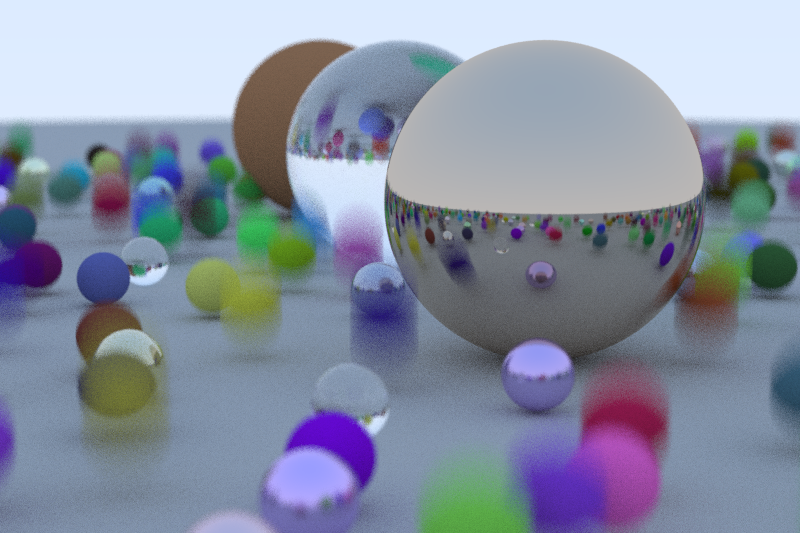
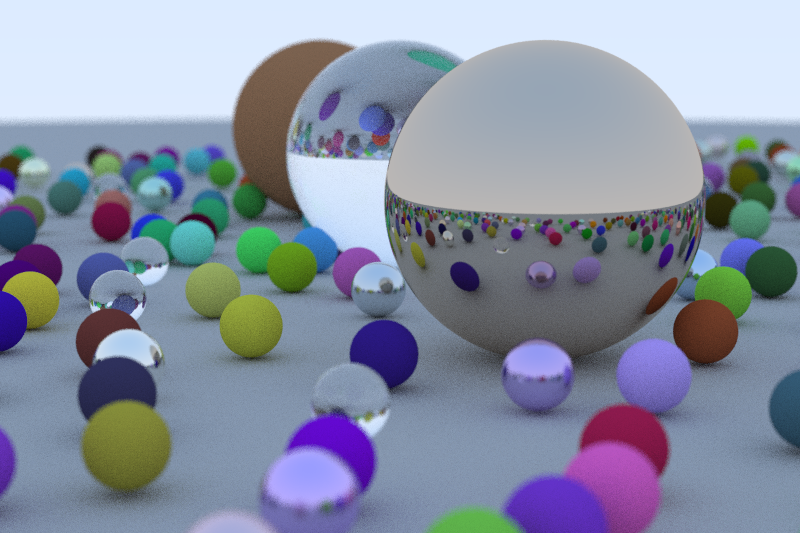
pack qbvh indices

diff --git a/src/main.rs b/src/main.rs
@@ -792,6 +792,10 @@ enum BVHNodeType {
     EmptyLeaf, // This node has no children.
 }
 
+struct PackedIdx {
+    value: i32
+}
+
 /// A QBVHNode has up to four children that it stores the bounds of.
 /// This allows fast intersection testing by testing all 4 at once through SIMD.
 struct QBVHNode {
@@ -801,9 +805,106 @@ struct QBVHNode {
     bb_max_x: [f32; 4],
     bb_max_y: [f32; 4],
     bb_max_z: [f32; 4],
-    children: [i32; 4],
-    num_children: [u16; 4], 
-    child_type: [BVHNodeType; 4],
+    children: [PackedIdx; 4],
+}
+
+impl PackedIdx {
+    fn new_joint(idx: u32) -> PackedIdx {
+        PackedIdx {
+            value: (idx as i32) & !i32::MIN
+        }
+    }
+
+    fn joint_get_idx(&self) -> u32 {
+        debug_assert_ne!(self.is_leaf(), true);
+        self.value as u32
+    }
+
+    fn new_empty_leaf() -> PackedIdx {
+        PackedIdx {
+            value: i32::MIN
+        }
+    }
+
+    const MAX_IDX: u32 = 8388607;
+    const MAX_COUNT: u32 = 255; 
+
+    /// Encodes bits as: IsChild:[1] Number of primitves:[8] start idx[23]:
+    fn new_leaf(idx: u32, count: u32) -> PackedIdx {
+        debug_assert!(idx <= PackedIdx::MAX_IDX, "Val: {}, Max: {}", idx, PackedIdx::MAX_IDX);
+        debug_assert!(count <= PackedIdx::MAX_COUNT, "Val: {}, Max: {}", count, PackedIdx::MAX_COUNT);
+
+        let packed_idx = ((!0 >> 9) & idx) as i32;
+        let packed_count = (count << 23) as i32;
+    
+        PackedIdx {
+            value: i32::MIN | packed_count | packed_idx
+        }
+    }
+
+    fn is_leaf(&self) -> bool {
+        (self.value & i32::MIN) == i32::MIN
+    }
+
+    fn is_empty_leaf(&self) -> bool {
+        self.value == i32::MIN
+    }
+
+    fn leaf_get_idx_count(&self) -> (u32, u32) {
+        debug_assert!(self.is_leaf());
+
+        let idx = self.value as u32 & (!0 >> 9);
+        let count = (self.value & !i32::MIN) >> 23;
+
+        (idx as u32, count as u32)
+    }
+}
+
+#[cfg(test)]
+mod packed_idx_tests {
+    use super::*;
+
+    #[test]
+    fn test_is_leaf()
+    {
+        let a = PackedIdx::new_leaf(4023, 15);
+        assert!(a.is_leaf());
+    
+        let b = PackedIdx::new_empty_leaf();
+        assert!(b.is_leaf());
+    
+        let c = PackedIdx::new_joint(u32::MAX);
+        assert!(c.is_leaf() == false);
+    
+        let d = PackedIdx::new_joint(239);
+        assert!(d.is_leaf() == false);
+    }
+
+    #[test]
+    fn test_get_leaf_data() {
+        {
+            let idx = 4023;
+            let count = 15;
+
+            let x = PackedIdx::new_leaf(idx, count);
+            let (i, c) = x.leaf_get_idx_count();
+            
+            assert_eq!(idx, i);
+            assert_eq!(count, c);
+        }
+        {
+            let x = PackedIdx::new_empty_leaf();
+            let (i, c) = x.leaf_get_idx_count();
+            assert_eq!(i, 0);
+            assert_eq!(c, 0);
+        }    
+        {
+            let x = PackedIdx::new_leaf(PackedIdx::MAX_IDX, PackedIdx::MAX_COUNT);
+            let (i, c) = x.leaf_get_idx_count();
+            assert_eq!(i, PackedIdx::MAX_IDX);
+            assert_eq!(c, PackedIdx::MAX_COUNT);
+        }
+    }
 }
 
 impl QBVHNode {
@@ -815,26 +916,20 @@ impl QBVHNode {
             bb_max_x: [0.0, 0.0, 0.0, 0.0],
             bb_max_y: [0.0, 0.0, 0.0, 0.0],
             bb_max_z: [0.0, 0.0, 0.0, 0.0],
-            children: [INVALID_GEO_IDX, INVALID_GEO_IDX, INVALID_GEO_IDX, INVALID_GEO_IDX],
-            num_children: [0, 0, 0, 0],
-            child_type: [BVHNodeType::Joint, BVHNodeType::Joint, BVHNodeType::Joint, BVHNodeType::Joint],
+            children: [PackedIdx::new_empty_leaf(), PackedIdx::new_empty_leaf(), PackedIdx::new_empty_leaf(), PackedIdx::new_empty_leaf()],
         }
     }
 
     fn set_child_joint_node(&mut self, child: usize, index: usize) {
-        self.children[child] = index as i32;
-        self.child_type[child] = BVHNodeType::Joint;
+        self.children[child] = PackedIdx::new_joint(index as u32)
     }
 
     fn set_child_leaf_node(&mut self, child: usize, size: usize, index: usize) {
         if size != 0 {
-            self.children[child] = index as i32;
-            self.num_children[child] = size as u16;
-            self.child_type[child] = BVHNodeType::Leaf;
+            self.children[child] = PackedIdx::new_leaf(index as u32, size as u32)
         }
         else {
-            self.children[child] = INVALID_GEO_IDX;
-            self.child_type[child] = BVHNodeType::EmptyLeaf;
+            self.children[child] = PackedIdx::new_empty_leaf()
         }
     }
 
@@ -855,26 +950,25 @@ struct QBVH {
 
 impl QBVH {
     fn hit_node(child_idx: usize, hit_any_node: &mut bool, r: Ray, t_min: f32, closest_t: &mut f32, current_node: &QBVHNode, bvh: &QBVH, world: &World, out_hit: &mut HitRecord) {
-        let node_idx = current_node.children[child_idx];
-        assert_ne!(node_idx, INVALID_GEO_IDX);
-        match current_node.child_type[child_idx] {
-            BVHNodeType::Leaf => {
-                let num_spheres = current_node.num_children[child_idx];
-                if hit(world, node_idx as usize, num_spheres as usize, r, t_min, *closest_t, out_hit) {
-                // if hit_spheres(world, node_idx as usize, num_spheres as usize, r, t_min, *closest_t, out_hit) {
-                    *hit_any_node = true;
-                    *closest_t = out_hit.t;
-                }                    
-            },
-            BVHNodeType::Joint => {
-                let child_node = &bvh.tree[node_idx as usize];
-                if QBVH::hit_world(r, t_min, *closest_t, child_node, bvh, world, out_hit) {
-                    *hit_any_node = true;
-                    *closest_t = out_hit.t;
-                }
-            },
-            BVHNodeType::EmptyLeaf => unreachable!()
-       }
+        
+        let child = &current_node.children[child_idx];
+        assert_eq!(child.is_empty_leaf(), false);
+        
+        if child.is_leaf() {
+            let (c_idx, c_count) = child.leaf_get_idx_count();
+            if hit(world, c_idx as usize, c_count as usize, r, t_min, *closest_t, out_hit) {
+            // if hit_spheres(world, node_idx as usize, num_spheres as usize, r, t_min, *closest_t, out_hit) {
+                *hit_any_node = true;
+                *closest_t = out_hit.t;
+            }                    
+        }
+        else {
+            let child_node = &bvh.tree[child.joint_get_idx() as usize];
+            if QBVH::hit_world(r, t_min, *closest_t, child_node, bvh, world, out_hit) {
+                *hit_any_node = true;
+                *closest_t = out_hit.t;
+            }
+        }
     }
 
     fn hit_world(r: Ray, t_min: f32, t_max: f32, current_node: &QBVHNode, bvh: &QBVH, world: &World, out_hit: &mut HitRecord) -> bool {        
@@ -1042,7 +1136,7 @@ impl QBVH {
             self.create_leaf_node(start, end, parent, child, &bounds);
             return;
         }
-    
+            
         let (split_axis, split_point) = pick_split_axis(objects, start, end, t0, t1);
         let split_idx = partition(objects, split_axis, split_point, start, end, t0, t1);
     
@@ -1103,17 +1197,17 @@ fn main() {
     generate_world_data(&mut objects, &mut materials);
     
     let start_t = 0.0;
-    let end_t = 1.0;
+    let end_t = 0.0;
 
     let obj_count = objects.len();
 
-    let mut bvh_tree : Vec<BVHNode> = Vec::new();
-    let mut bvh_root = BVHNode::new();
-    construct_bvh(&mut objects, start_t, end_t, &mut bvh_tree, &mut bvh_root, 0, obj_count);
-    let bvh = BVH { root: bvh_root, tree: bvh_tree };
+    // let mut bvh_tree : Vec<BVHNode> = Vec::new();
+    // let mut bvh_root = BVHNode::new();
+    // construct_bvh(&mut objects, start_t, end_t, &mut bvh_tree, &mut bvh_root, 0, obj_count);
+    // let bvh = BVH { root: bvh_root, tree: bvh_tree };
 
-    // let mut bvh = QBVH { tree: Vec::new() };
-    // bvh.build(&mut objects, 0, obj_count, -1, 0, 0, start_t, end_t);
+    let mut bvh = QBVH { tree: Vec::new() };
+    bvh.build(&mut objects, 0, obj_count, -1, 0, 0, start_t, end_t);
 
     let world = World::construct(&objects);
 
